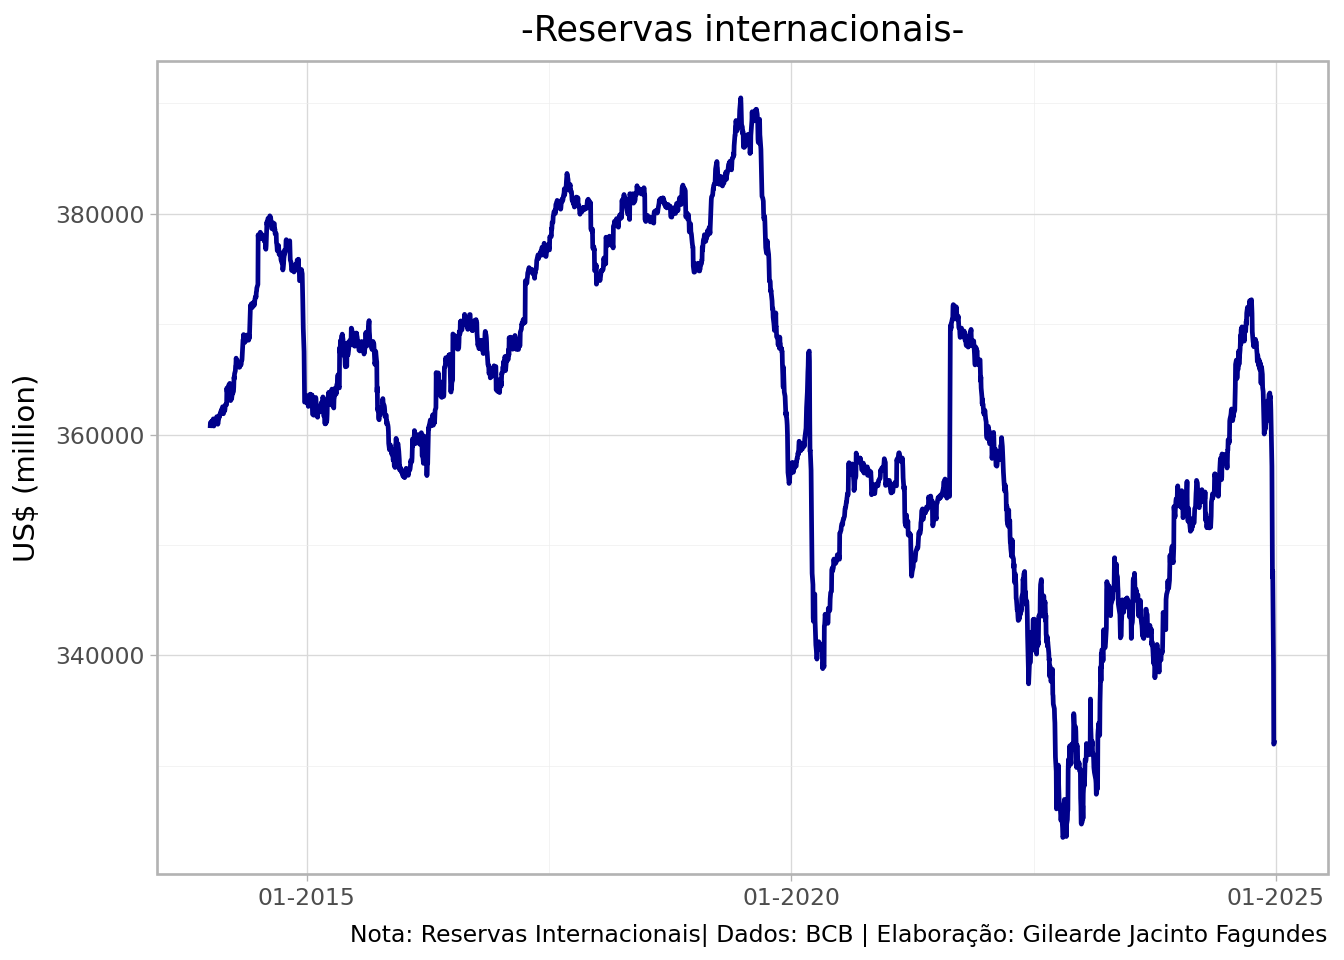
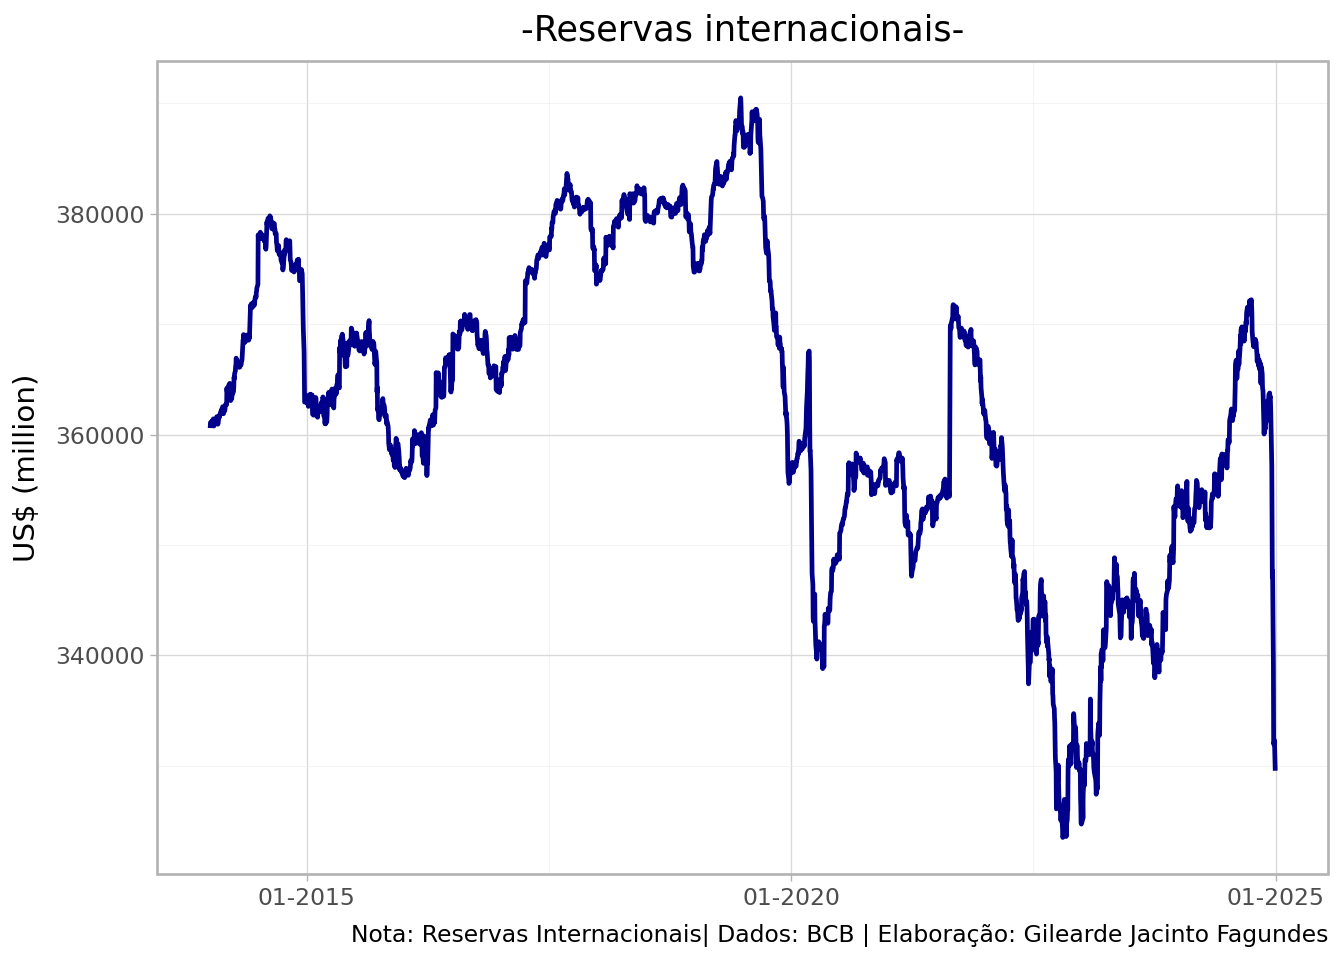
Atualização de relatorio e dashboard

Changed region(s): [[0.25, 0.9688, 1.0, 1.0], [0.875, 0.5, 0.9062, 0.5312]]

diff --git a/relatorio/relatorio.html b/relatorio/relatorio.html
@@ -107,14 +107,14 @@ pre > code.sourceCode > span > a:first-child::before { text-decoration: underlin
 
 
 <p>Dados coletados da API do Banco Central do Brasil.</p>
-<div id="27ebeddd" class="cell" data-execution_count="1">
+<div id="ae71b2ab" class="cell" data-execution_count="1">
 <div class="sourceCode cell-code" id="cb1"><pre class="sourceCode python code-with-copy"><code class="sourceCode python"><span id="cb1-1"><a href="#cb1-1" aria-hidden="true" tabindex="-1"></a><span class="co"># Importar bibliotecas</span></span>
 <span id="cb1-2"><a href="#cb1-2" aria-hidden="true" tabindex="-1"></a><span class="im">from</span> bcb <span class="im">import</span> sgs</span>
 <span id="cb1-3"><a href="#cb1-3" aria-hidden="true" tabindex="-1"></a><span class="im">import</span> pandas <span class="im">as</span> pd</span>
 <span id="cb1-4"><a href="#cb1-4" aria-hidden="true" tabindex="-1"></a><span class="im">import</span> plotnine <span class="im">as</span> p9</span></code><button title="Copy to Clipboard" class="code-copy-button"><i class="bi"></i></button></pre></div>
 </div>
 <p>Utilização da library SGS/BCB :</p>
-<div id="bd3a6ddb" class="cell" data-execution_count="2">
+<div id="28c58270" class="cell" data-execution_count="2">
 <div class="sourceCode cell-code" id="cb2"><pre class="sourceCode python code-with-copy"><code class="sourceCode python"><span id="cb2-1"><a href="#cb2-1" aria-hidden="true" tabindex="-1"></a><span class="co"># Coleta de dados</span></span>
 <span id="cb2-2"><a href="#cb2-2" aria-hidden="true" tabindex="-1"></a>dados <span class="op">=</span> sgs.get(</span>
 <span id="cb2-3"><a href="#cb2-3" aria-hidden="true" tabindex="-1"></a>    codes<span class="op">=</span>{<span class="st">"reserva"</span>: <span class="dv">13621</span>},</span>
@@ -123,7 +123,7 @@ pre > code.sourceCode > span > a:first-child::before { text-decoration: underlin
 <span id="cb2-6"><a href="#cb2-6" aria-hidden="true" tabindex="-1"></a>)</span></code><button title="Copy to Clipboard" class="code-copy-button"><i class="bi"></i></button></pre></div>
 </div>
 <p>Os dados brutos obtidos no SGS/BCB são exibidos abaixo:</p>
-<div id="21812aa6" class="cell" data-execution_count="3">
+<div id="cd823bbc" class="cell" data-execution_count="3">
 <div class="sourceCode cell-code" id="cb3"><pre class="sourceCode python code-with-copy"><code class="sourceCode python"><span id="cb3-1"><a href="#cb3-1" aria-hidden="true" tabindex="-1"></a>dados</span></code><button title="Copy to Clipboard" class="code-copy-button"><i class="bi"></i></button></pre></div>
 <div class="cell-output cell-output-display" data-execution_count="3">
 <div>
@@ -166,37 +166,37 @@ pre > code.sourceCode > span > a:first-child::before { text-decoration: underlin
 <td>...</td>
 </tr>
 <tr class="odd">
-<td data-quarto-table-cell-role="th">2024-12-20</td>
-<td>347644</td>
-</tr>
-<tr class="even">
 <td data-quarto-table-cell-role="th">2024-12-23</td>
 <td>339112</td>
 </tr>
-<tr class="odd">
+<tr class="even">
 <td data-quarto-table-cell-role="th">2024-12-24</td>
 <td>331945</td>
 </tr>
-<tr class="even">
+<tr class="odd">
 <td data-quarto-table-cell-role="th">2024-12-26</td>
 <td>332081</td>
 </tr>
-<tr class="odd">
+<tr class="even">
 <td data-quarto-table-cell-role="th">2024-12-27</td>
 <td>332306</td>
+</tr>
+<tr class="odd">
+<td data-quarto-table-cell-role="th">2024-12-30</td>
+<td>329537</td>
 </tr>
 </tbody>
 </table>
 
-<p>2759 rows × 1 columns</p>
+<p>2760 rows × 1 columns</p>
 </div>
 </div>
 </div>
 <p>Valores e datas da maxima e minima das Reservas Internacionais Totais:</p>
-<div id="09c4224a" class="cell" data-execution_count="4">
+<div id="da7883f2" class="cell" data-execution_count="4">
 <div class="sourceCode cell-code" id="cb4"><pre class="sourceCode python code-with-copy"><code class="sourceCode python"><span id="cb4-1"><a href="#cb4-1" aria-hidden="true" tabindex="-1"></a>dados <span class="op">=</span> dados.assign(data <span class="op">=</span> dados.index)</span></code><button title="Copy to Clipboard" class="code-copy-button"><i class="bi"></i></button></pre></div>
 </div>
-<div id="0ccae9ad" class="cell" data-execution_count="5">
+<div id="2b547f5a" class="cell" data-execution_count="5">
 <div class="sourceCode cell-code" id="cb5"><pre class="sourceCode python code-with-copy"><code class="sourceCode python"><span id="cb5-1"><a href="#cb5-1" aria-hidden="true" tabindex="-1"></a>menor_valor <span class="op">=</span> dados.reserva.<span class="bu">min</span>() </span>
 <span id="cb5-2"><a href="#cb5-2" aria-hidden="true" tabindex="-1"></a>data_menor_valor <span class="op">=</span> dados.reserva.idxmin().date()</span>
 <span id="cb5-3"><a href="#cb5-3" aria-hidden="true" tabindex="-1"></a>maior_valor<span class="op">=</span>dados.reserva.<span class="bu">max</span>()</span>
@@ -208,7 +208,7 @@ pre > code.sourceCode > span > a:first-child::before { text-decoration: underlin
 </div>
 </div>
 <p>Gráfico de linha com a série das Reservas Internacionais Totais:</p>
-<div id="8fb2e3f7" class="cell" data-execution_count="6">
+<div id="748a579a" class="cell" data-execution_count="6">
 <div class="sourceCode cell-code" id="cb7"><pre class="sourceCode python code-with-copy"><code class="sourceCode python"><span id="cb7-1"><a href="#cb7-1" aria-hidden="true" tabindex="-1"></a><span class="co"># Gráfico de linha</span></span>
 <span id="cb7-2"><a href="#cb7-2" aria-hidden="true" tabindex="-1"></a>chart<span class="op">=</span>p9.ggplot(data <span class="op">=</span> dados) <span class="op">+\</span></span>
 <span id="cb7-3"><a href="#cb7-3" aria-hidden="true" tabindex="-1"></a>  p9.aes(x <span class="op">=</span> <span class="st">"data"</span>, y <span class="op">=</span> <span class="st">"reserva"</span>) <span class="op">+\</span></span>
@@ -222,7 +222,7 @@ pre > code.sourceCode > span > a:first-child::before { text-decoration: underlin
 <span id="cb7-11"><a href="#cb7-11" aria-hidden="true" tabindex="-1"></a>    ) <span class="op">+\</span></span>
 <span id="cb7-12"><a href="#cb7-12" aria-hidden="true" tabindex="-1"></a>  p9.theme_light()</span></code><button title="Copy to Clipboard" class="code-copy-button"><i class="bi"></i></button></pre></div>
 </div>
-<div id="d17b1db6" class="cell" data-execution_count="7">
+<div id="109f25b6" class="cell" data-execution_count="7">
 <div class="sourceCode cell-code" id="cb8"><pre class="sourceCode python code-with-copy"><code class="sourceCode python"><span id="cb8-1"><a href="#cb8-1" aria-hidden="true" tabindex="-1"></a>chart</span></code><button title="Copy to Clipboard" class="code-copy-button"><i class="bi"></i></button></pre></div>
 <div class="cell-output cell-output-display">
 <div>
